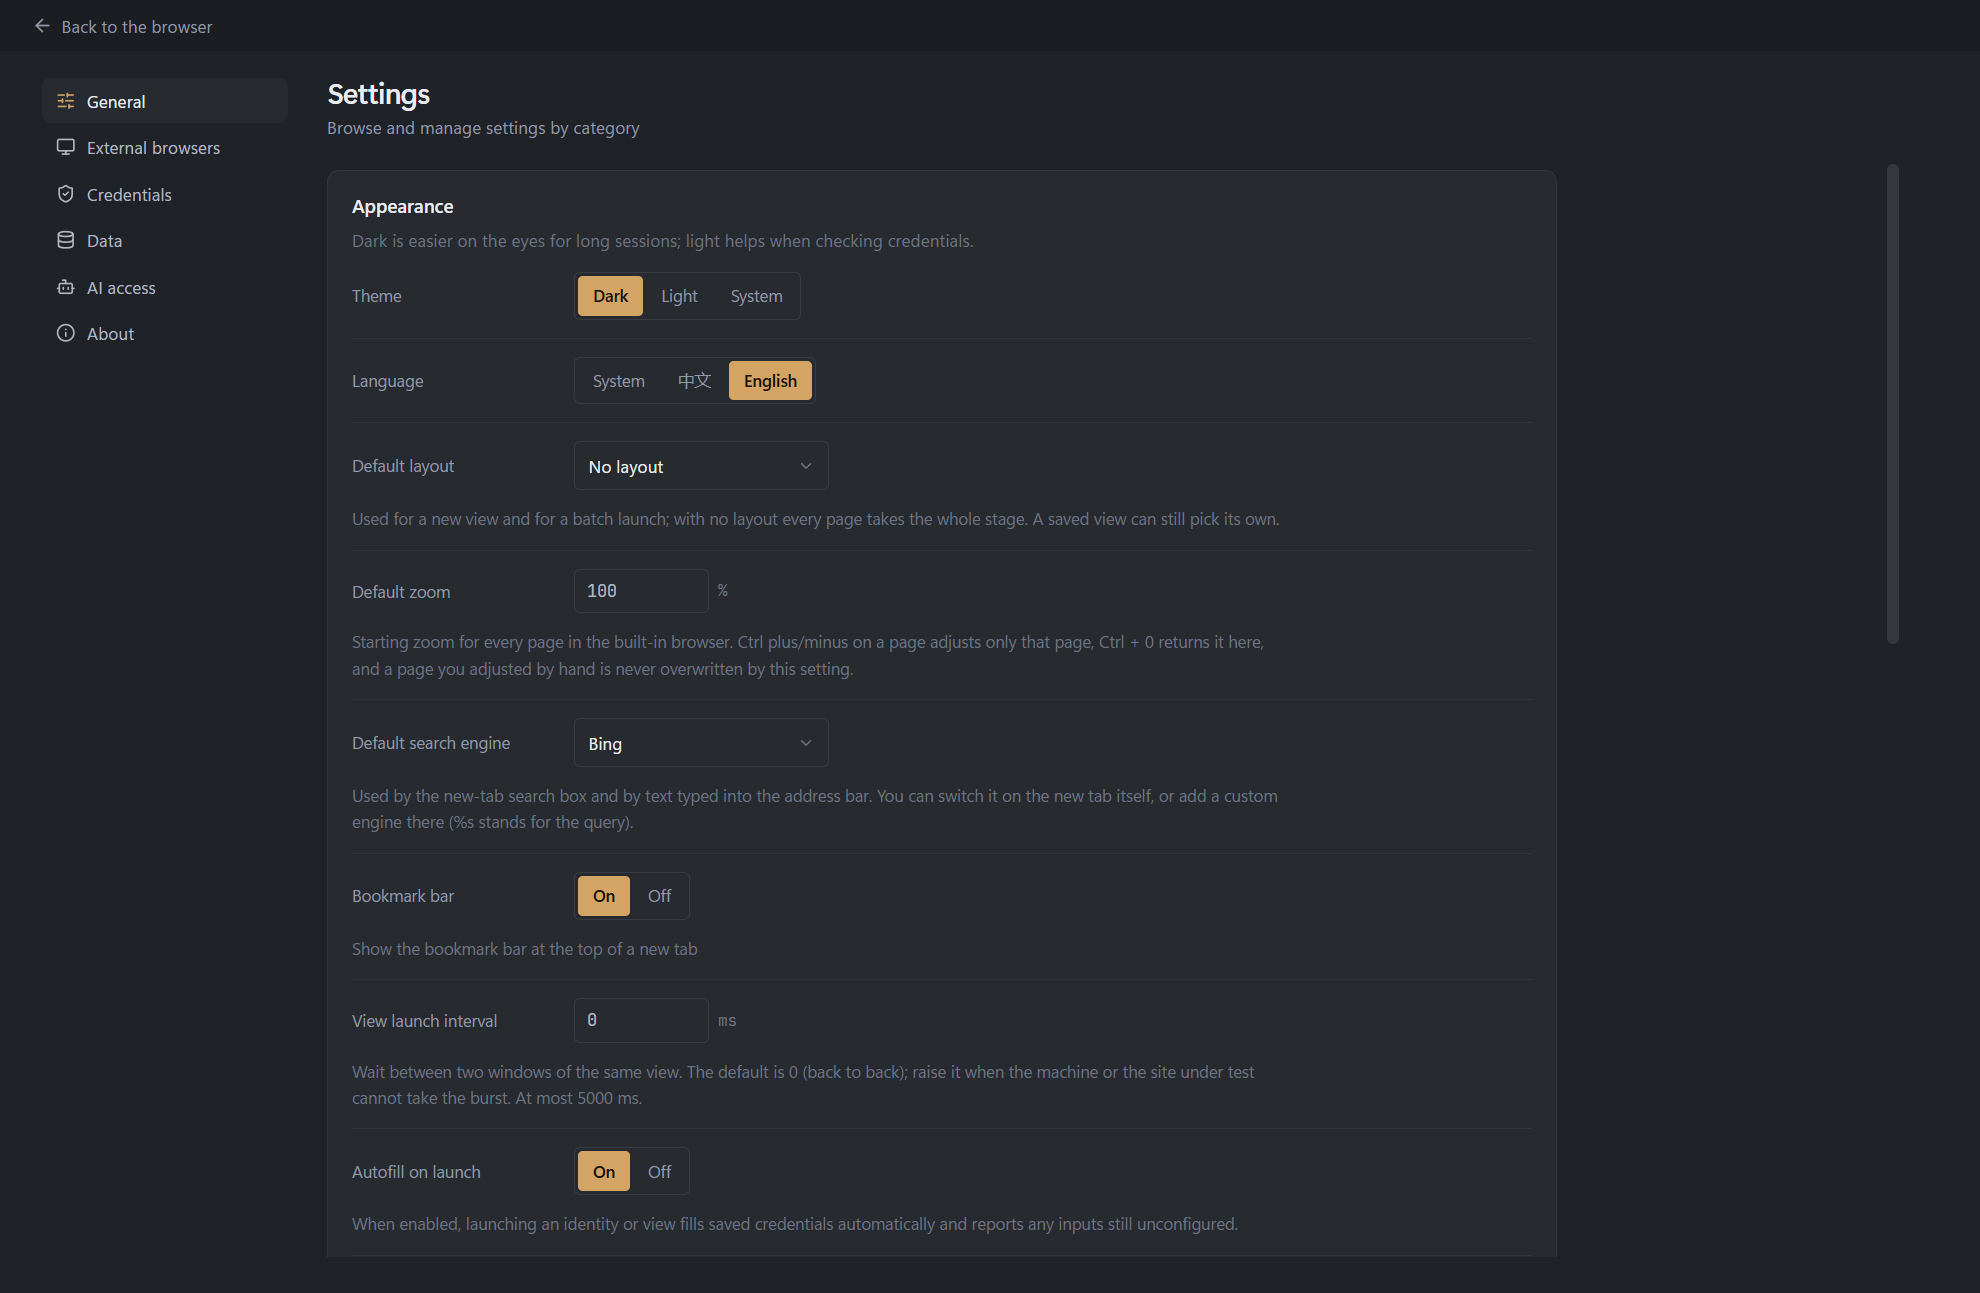
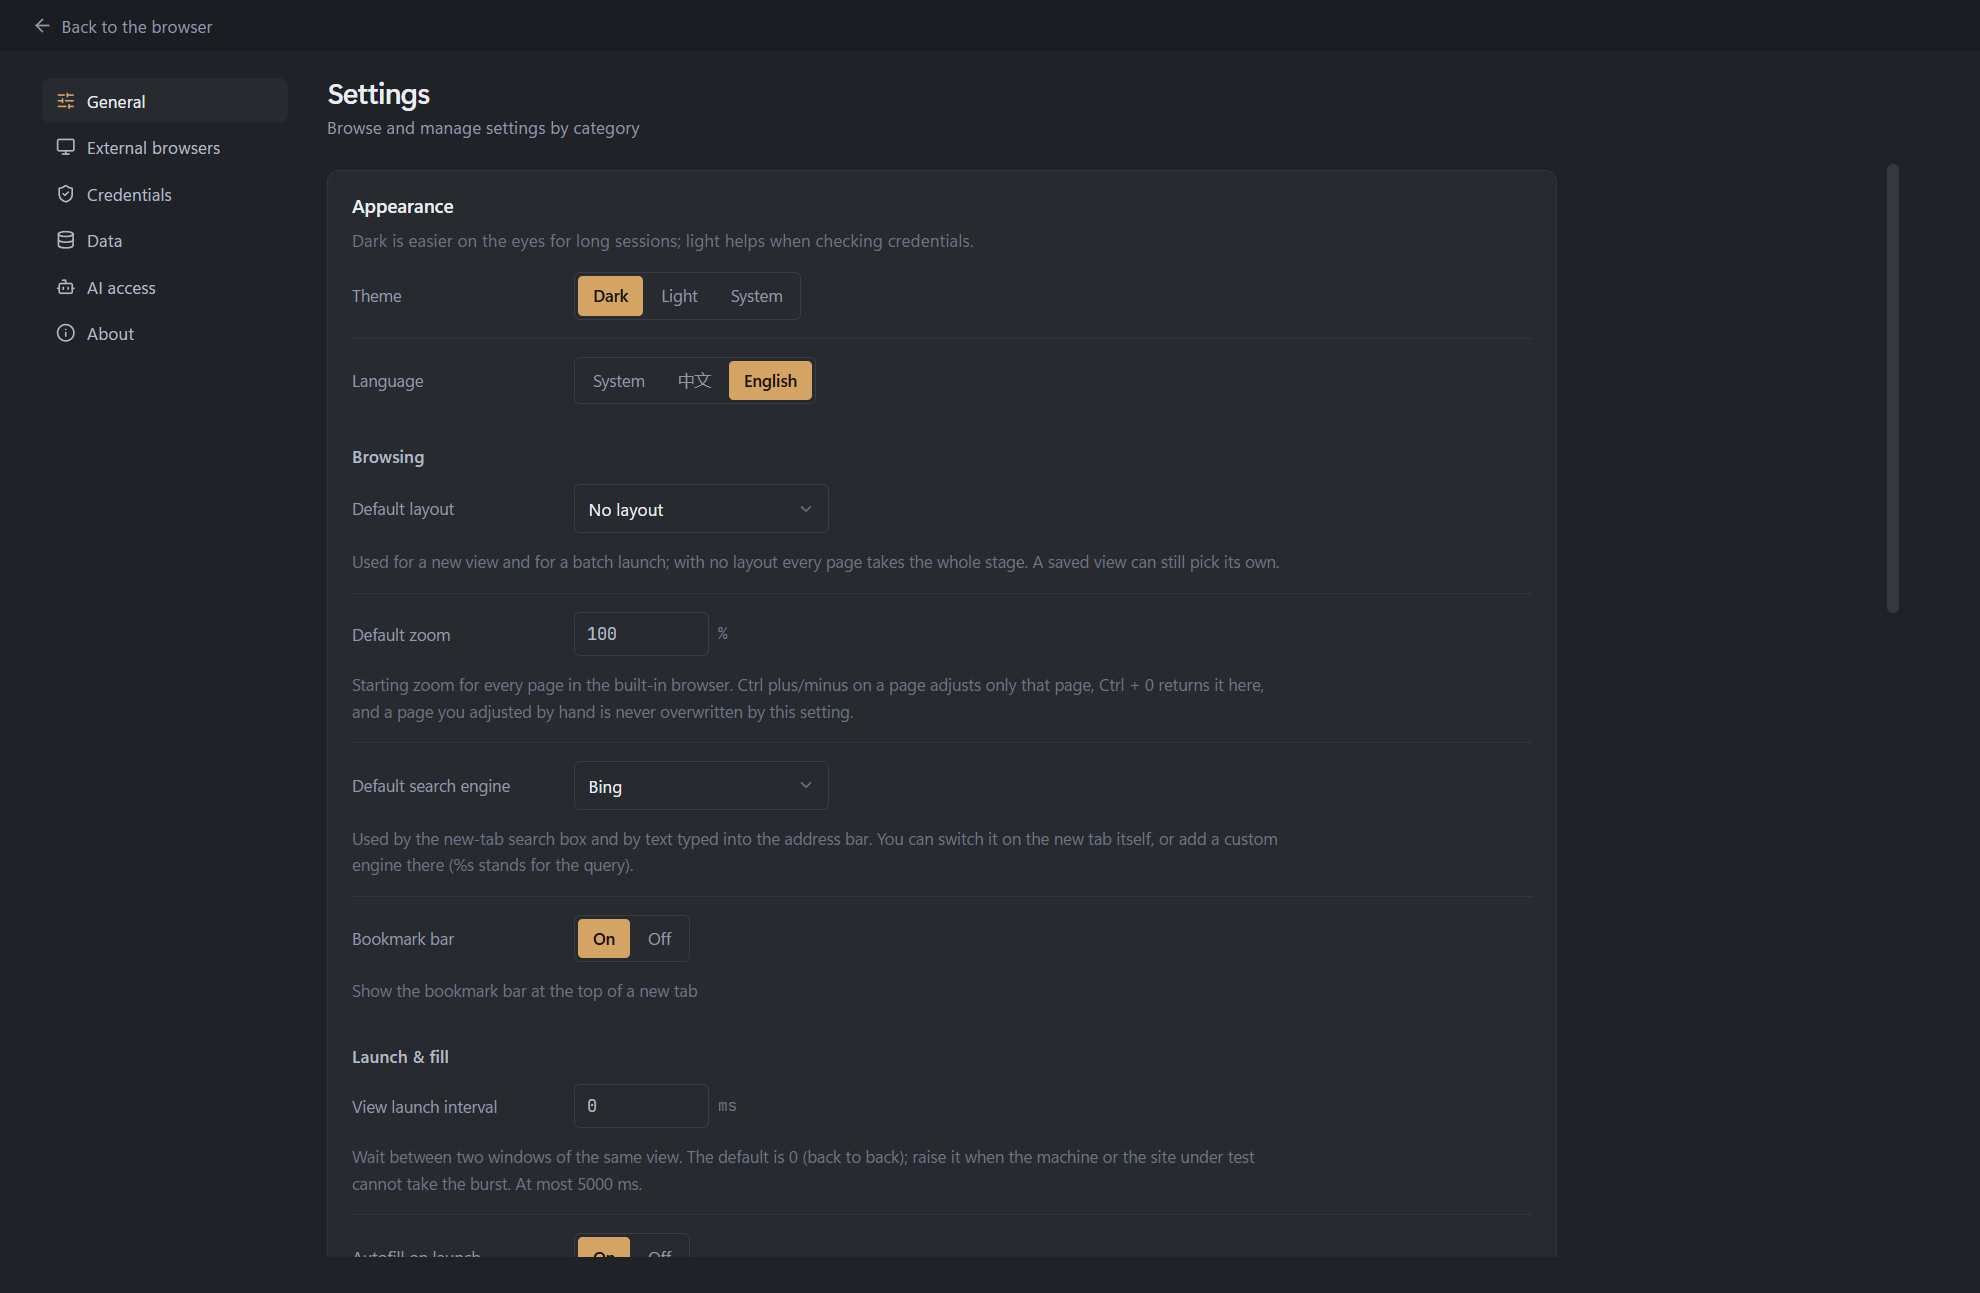
feat(renderer): 设置页常规选项按外观、浏览、启动、应用、工具分节

diff --git a/src/renderer/src/components/SettingsPage.vue b/src/renderer/src/components/SettingsPage.vue
@@ -620,6 +620,7 @@ async function submitMaster() {
                 </button>
               </div>
             </div>
+            <h3 class="group-title">{{ $t("app.settingsGroupBrowsing") }}</h3>
             <div class="option-row">
               <span class="option-label">{{ $t("app.defaultLayout") }}</span>
               <div class="select-slot">
@@ -703,6 +704,7 @@ async function submitMaster() {
               </div>
             </div>
             <p class="fineprint">{{ $t("app.bookmarkShowHint") }}</p>
+            <h3 class="group-title">{{ $t("app.settingsGroupLaunch") }}</h3>
             <div class="option-row">
               <span class="option-label">{{ $t("app.launchInterval") }}</span>
               <div class="interval">
@@ -804,6 +806,7 @@ async function submitMaster() {
               </div>
             </div>
             <p class="fineprint">{{ $t("app.restoreViewNote") }}</p>
+            <h3 class="group-title">{{ $t("app.settingsGroupApp") }}</h3>
             <div class="option-row">
               <span class="option-label">{{ $t("app.autoUpdateSetting") }}</span>
               <div class="segmented">
@@ -908,6 +911,7 @@ async function submitMaster() {
               </li>
             </ul>
             <p v-if="probeReadout" class="fineprint">{{ probeReadout }}</p>
+            <h3 class="group-title">{{ $t("app.settingsGroupExtras") }}</h3>
             <div class="option-row">
               <span class="option-label">{{ $t("app.overlaySetting") }}</span>
               <div class="segmented">
@@ -1531,7 +1535,7 @@ async function submitMaster() {
 }
 
 .tab.active svg {
-  color: var(--accent);
+  color: var(--accent-text);
 }
 
 .scroll {
@@ -1582,6 +1586,25 @@ async function submitMaster() {
 .block > .option-row:first-child {
   border-top: 0;
   padding-top: 0;
+}
+
+/*
+ * Section titles inside one tab. The rows are one flat list otherwise — a
+ * dozen unrelated settings in a row reads as a wall. A group title is a quiet
+ * label, not another card: it opens a section with whitespace and carries the
+ * first row's separator itself, so no double line appears.
+ */
+.group-title {
+  margin: 26px 0 0;
+  font-size: var(--fs-sm);
+  font-weight: 600;
+  color: var(--text-secondary);
+}
+
+.group-title + .option-row {
+  margin-top: 0;
+  border-top: 0;
+  padding-top: 10px;
 }
 
 .block-head {
@@ -1701,7 +1724,7 @@ async function submitMaster() {
 }
 
 .cap.external {
-  color: var(--accent);
+  color: var(--accent-text);
   border-color: color-mix(in srgb, var(--accent) 32%, var(--line));
 }
 
@@ -1913,7 +1936,7 @@ async function submitMaster() {
 }
 
 .vault-icon.warn {
-  color: var(--accent);
+  color: var(--accent-text);
 }
 
 .vault-copy {
@@ -1936,7 +1959,7 @@ async function submitMaster() {
   max-width: 55%;
   font-size: 11px;
   line-height: 1.5;
-  color: var(--accent);
+  color: var(--accent-text);
 }
 
 .vault-unlock,
@@ -2317,7 +2340,7 @@ async function submitMaster() {
 }
 
 .update-state.warn {
-  color: var(--accent);
+  color: var(--accent-text);
 }
 
 .update-state.error {

diff --git a/src/renderer/src/i18n/messages.ts b/src/renderer/src/i18n/messages.ts
@@ -578,6 +578,10 @@ export const messages = {
       settingsTabData: "数据",
       settingsTabMcp: "AI 接入",
       settingsTabAbout: "关于",
+      settingsGroupBrowsing: "浏览",
+      settingsGroupLaunch: "启动与填充",
+      settingsGroupApp: "应用",
+      settingsGroupExtras: "工具",
       scanning: "扫描中",
       tableBrowser: "浏览器",
       tableVersion: "版本",
@@ -1618,6 +1622,10 @@ export const messages = {
       settingsTabData: "Data",
       settingsTabMcp: "AI access",
       settingsTabAbout: "About",
+      settingsGroupBrowsing: "Browsing",
+      settingsGroupLaunch: "Launch & fill",
+      settingsGroupApp: "Application",
+      settingsGroupExtras: "Tools",
       scanning: "Scanning",
       tableBrowser: "Browser",
       tableVersion: "Version",

diff --git a/CHANGELOG.md b/CHANGELOG.md
@@ -37,6 +37,8 @@
 - 运行坞里不属于任何视图的分组更名为「实例」：它们各自是独立的浏览器实例，而不是同一个窗口里的标签页。
 - 修复：批量启动时部分账号会先闪现在「实例」分组，随后才进入新视图——现在页面从创建起就归属目标视图，逐格点亮的过程不再路过实例分组。
 - 修复：登录弹窗里服务器返回的中文保护区域说明显示为乱码，现在自动还原。
+- 浅色主题的主色重做：按钮和高亮改用亮琥珀配深色文字，链接与彩色文字用专门的金色，不再是浑浊的深褐色。
+- 设置页的常规选项按「外观 / 浏览 / 启动与填充 / 应用 / 工具」分节，长列表有了层次。
 
 ### English
 
@@ -55,6 +57,8 @@
 - The group in the run dock for browser instances outside any view is now called "Instances": each row is an independent browser session, not a tab of one window.
 - Fixed: during a batch launch some accounts briefly flashed under the loose "Instances" group before joining the new view — pages now belong to their view from creation, and the cell-by-cell lighting no longer detours through the loose group.
 - Fixed: the sign-in dialog showed a server's non-ASCII realm as mojibake; it is now recovered automatically.
+- The light theme's accent is redone: buttons and highlights use bright amber with dark text, links and coloured text use a dedicated deep gold — no more muddy brown.
+- The settings page's general options are grouped into sections (Appearance / Browsing / Launch & fill / Application / Tools), giving the long list some hierarchy.
 
 ## [1.4.0] - 2026-11-03
 
